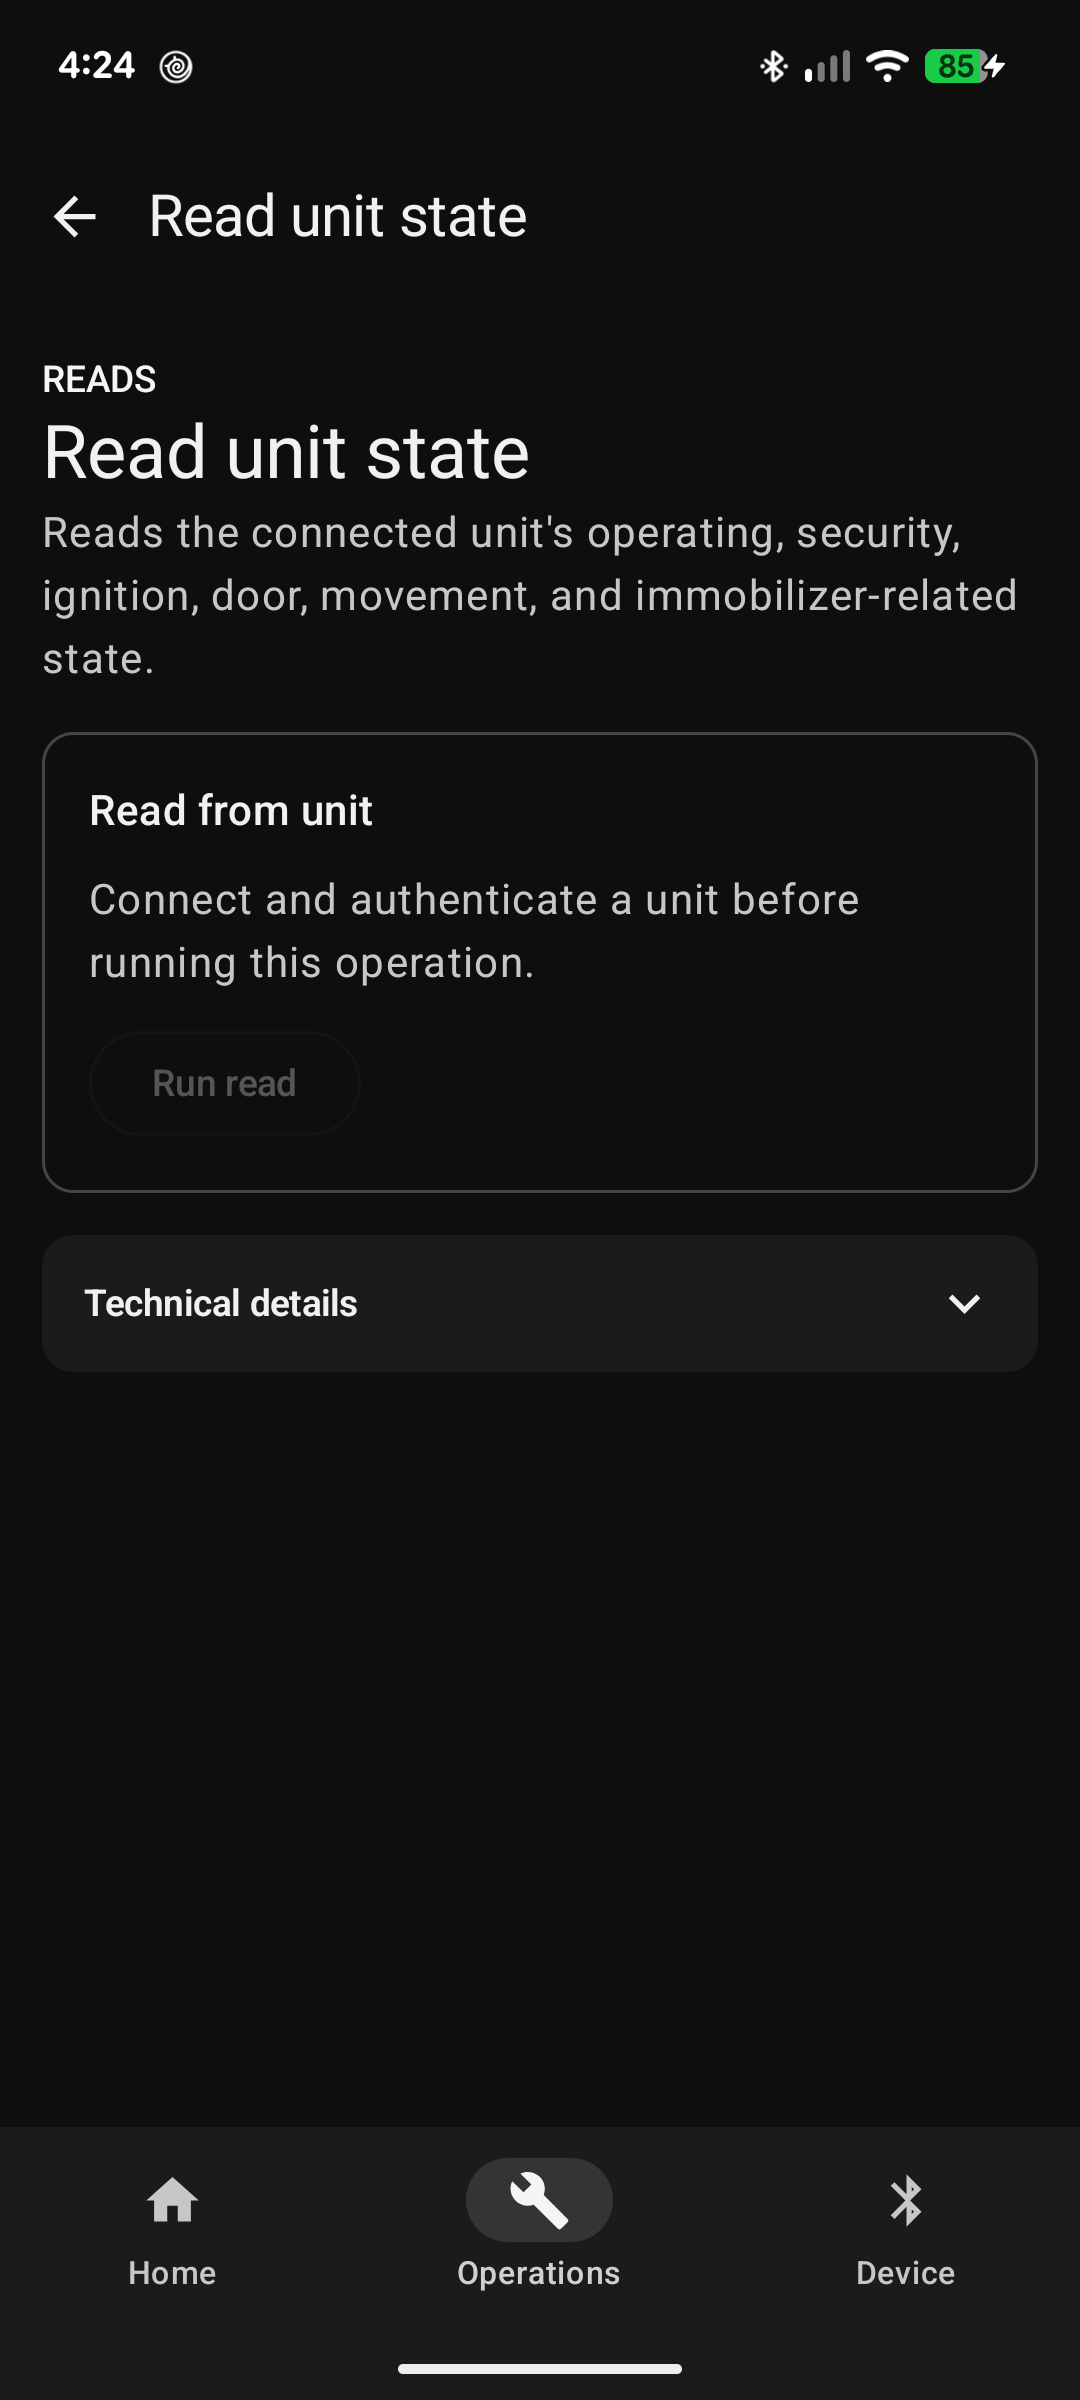
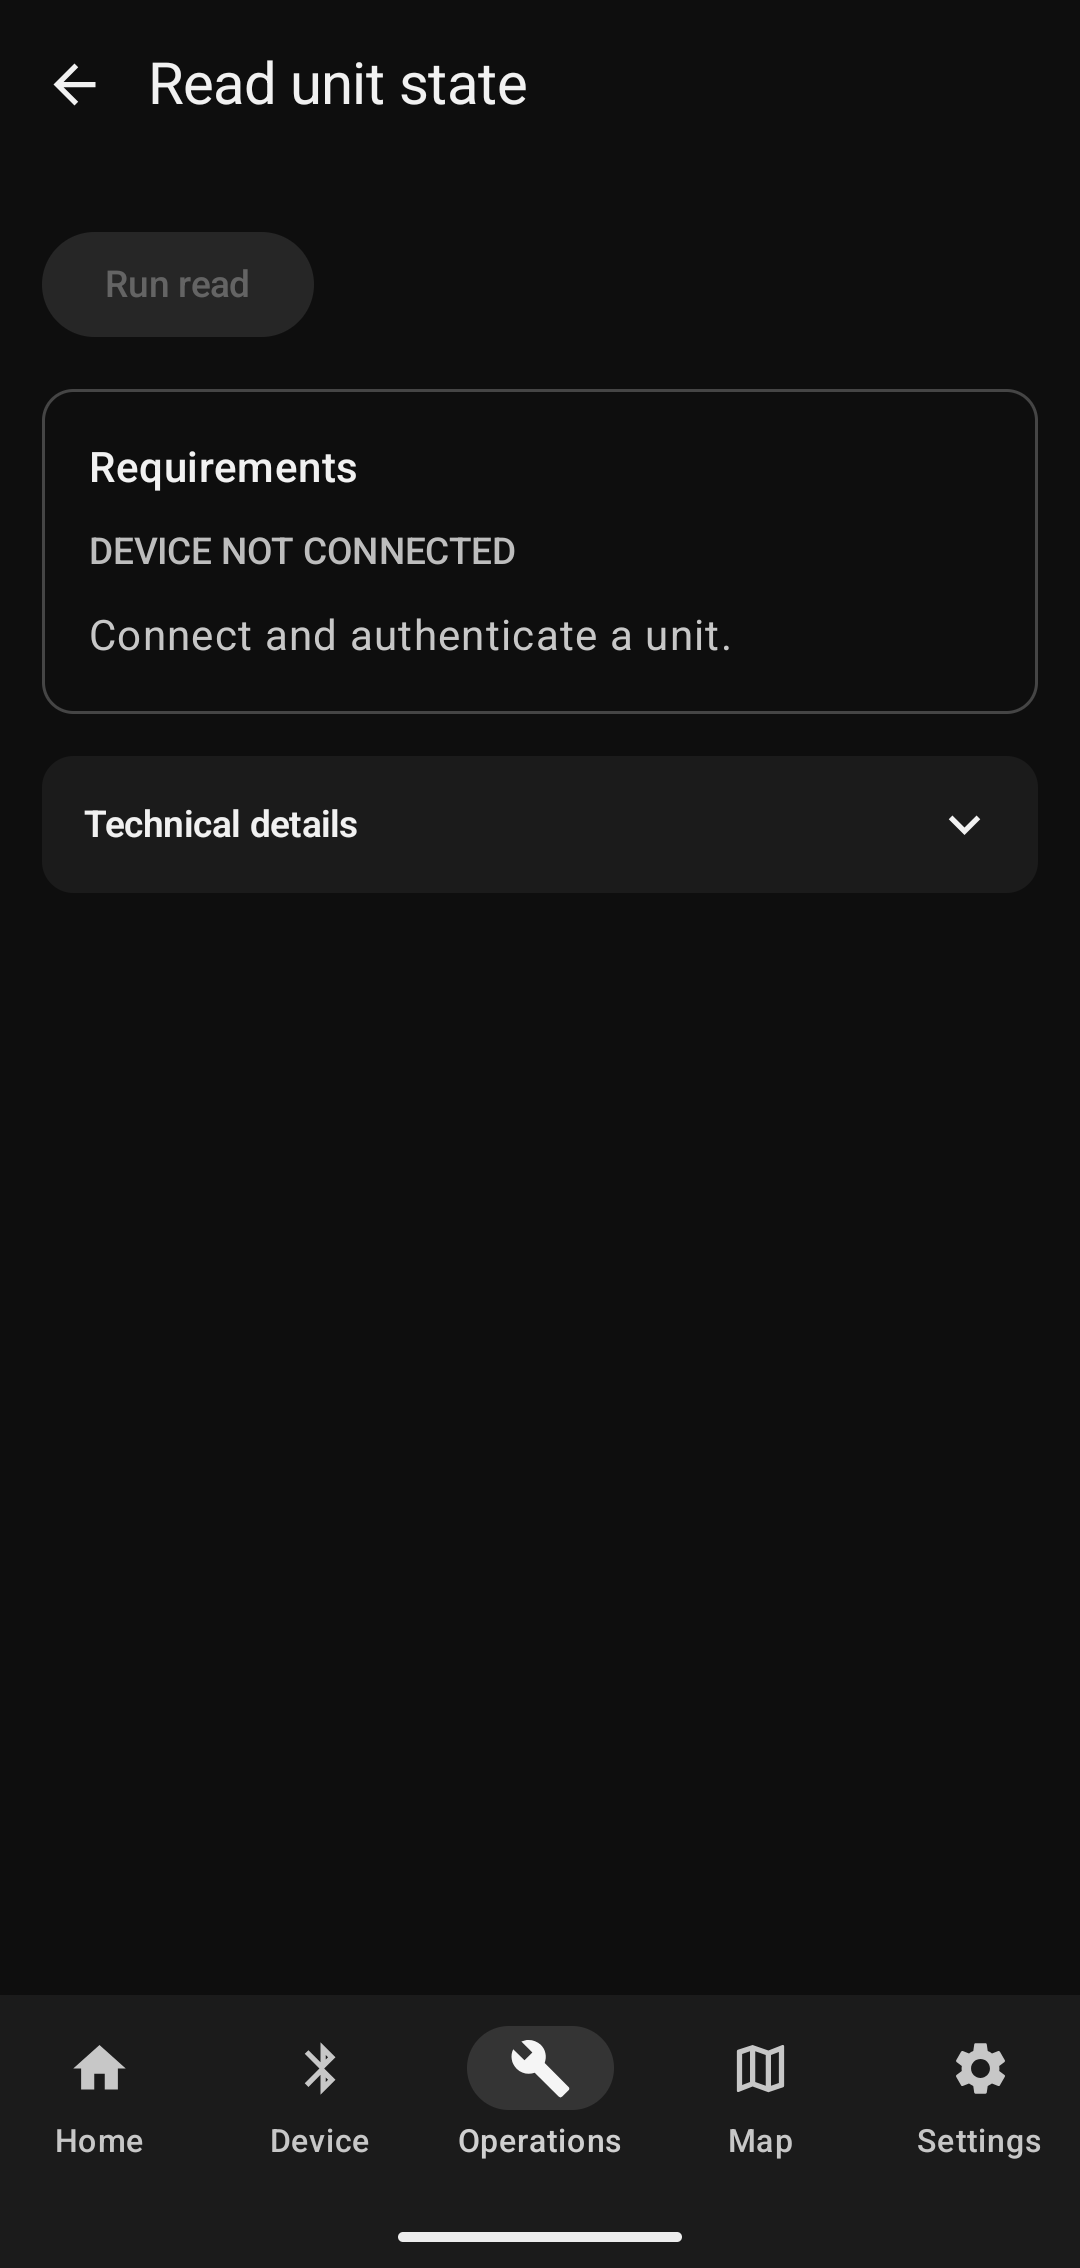
Refresh README screenshots and document Map/Settings screens
Recapture all screenshots from KARR Key 1.0.3 on-device, cropped to
exclude the status bar, and add the previously undocumented Map and
Settings screens. The Map screenshot uses a temporarily lowered zoom
level (reverted after capture) to show a regional view instead of the
tester's precise location.

Also document the Map search/recenter/last-seen features and the
Settings screen's three tabs, and fix the navigation-bar description
that omitted Settings.

diff --git a/README.md b/README.md
@@ -17,8 +17,9 @@ not include recovered passwords or universal device keys.
 
 ## Screenshots
 
-These real-device screenshots were captured from KARR Key 1.0.1 on a Pixel 6a.
-Select an image to view it at full resolution.
+These real-device screenshots were captured from KARR Key 1.0.3 on a Pixel 6a.
+Select an image to view it at full resolution. The map screenshot is zoomed
+out to a regional view to avoid showing the tester's precise location.
 
 <table>
   <tr>
@@ -29,24 +30,38 @@ Select an image to view it at full resolution.
       <br><sub>Home and research overview</sub>
     </td>
     <td align="center">
+      <a href="docs/screenshots/device.png">
+        <img src="docs/screenshots/device.png" width="320" alt="KARR Key Device connection screen">
+      </a>
+      <br><sub>Bluetooth connection and scan controls</sub>
+    </td>
+  </tr>
+  <tr>
+    <td align="center">
       <a href="docs/screenshots/operations.png">
         <img src="docs/screenshots/operations.png" width="320" alt="KARR Key Operations screen">
       </a>
       <br><sub>Searchable operations catalog</sub>
     </td>
-  </tr>
-  <tr>
     <td align="center">
       <a href="docs/screenshots/operation-detail.png">
         <img src="docs/screenshots/operation-detail.png" width="320" alt="KARR Key operation detail screen">
       </a>
       <br><sub>Authentication-gated operation detail</sub>
     </td>
+  </tr>
+  <tr>
     <td align="center">
-      <a href="docs/screenshots/device.png">
-        <img src="docs/screenshots/device.png" width="320" alt="KARR Key Device connection screen">
+      <a href="docs/screenshots/map.png">
+        <img src="docs/screenshots/map.png" width="320" alt="KARR Key Map screen">
       </a>
-      <br><sub>Bluetooth connection and scan controls</sub>
+      <br><sub>Discovered-device map with search and recenter</sub>
+    </td>
+    <td align="center">
+      <a href="docs/screenshots/settings.png">
+        <img src="docs/screenshots/settings.png" width="320" alt="KARR Key Settings screen">
+      </a>
+      <br><sub>Access keys, map data, and diagnostics settings</sub>
     </td>
   </tr>
 </table>
@@ -155,10 +170,24 @@ Map plots KARR candidate advertisements from active scans using the phone's
 foreground location fix and each advertisement's RSSI. Stronger RSSI produces a
 smaller confidence circle; weaker RSSI and poorer location accuracy produce a
 larger circle. Map uses osmdroid with OpenStreetMap raster tiles and visible OSM
-attribution. It does not use Google Maps or Google Play Services.
+attribution, and supports the full OSM zoom range. It does not use Google Maps
+or Google Play Services.
 
-Map history is stored locally until the user clears it. Device identifiers and
-coordinates are encrypted with Android Keystore-backed storage.
+A **Search** button finds a previously discovered device by name, showing when
+it was last seen and jumping the map to it when selected. A **Recenter** button
+returns the map to the phone's current location without changing the zoom
+level. Map history is stored locally until the user clears it; device
+identifiers and coordinates are encrypted with Android Keystore-backed storage.
+
+### Settings
+
+Settings has three tabs. **Access keys** manages the Customer and
+Dealer/Installer research access information used to authenticate with a unit,
+each independently clearable. **Map** shows how many map observations are
+stored, clears that history, and imports or exports it as a WiGLE-compatible
+CSV; importing a foreign WiGLE file only keeps devices that match KARR's
+discovery logic. **Diagnostics** runs a self-test and previews the most recent
+decoded Bluetooth notification.
 
 ## Important limits
 
@@ -179,8 +208,8 @@ coordinates are encrypted with Android Keystore-backed storage.
 ## Design and navigation
 
 The interface uses a greyscale light and dark theme. Home, Device, Operations,
-and Map are selected from the navigation bar, in that order. Operation details
-use the normal Android back action.
+Map, and Settings are selected from the navigation bar, in that order.
+Operation details use the normal Android back action.
 
 ## Building the app
 
